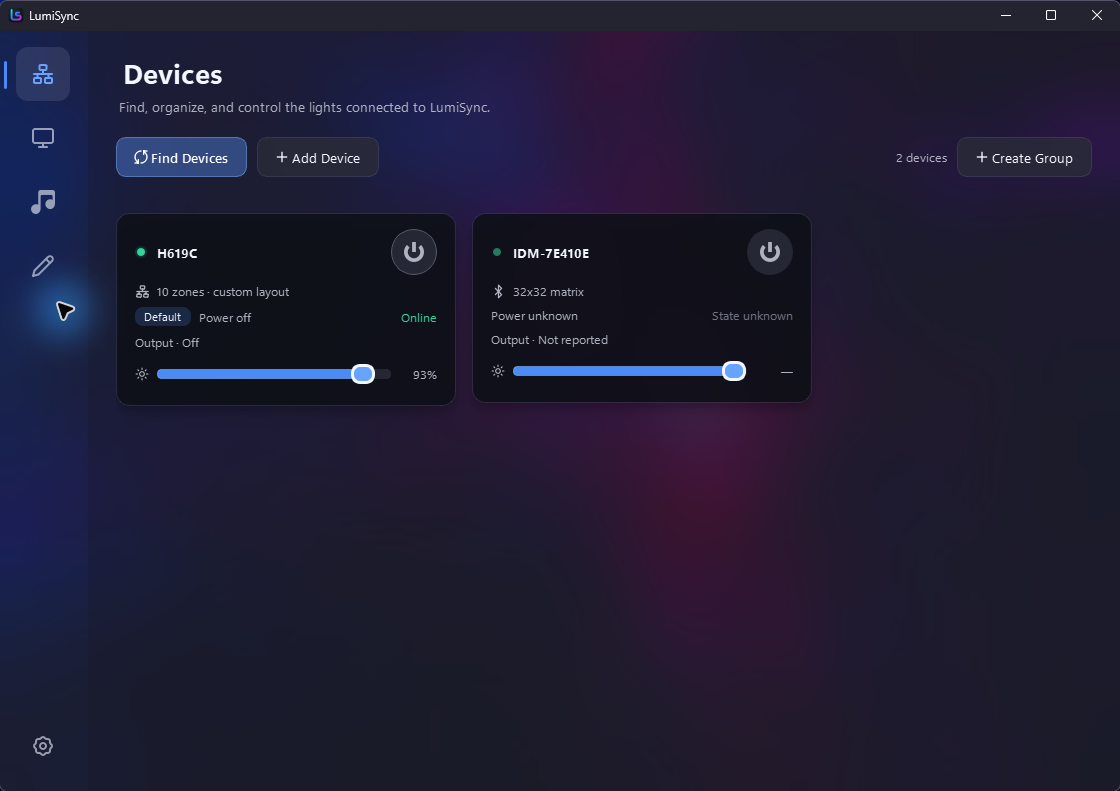
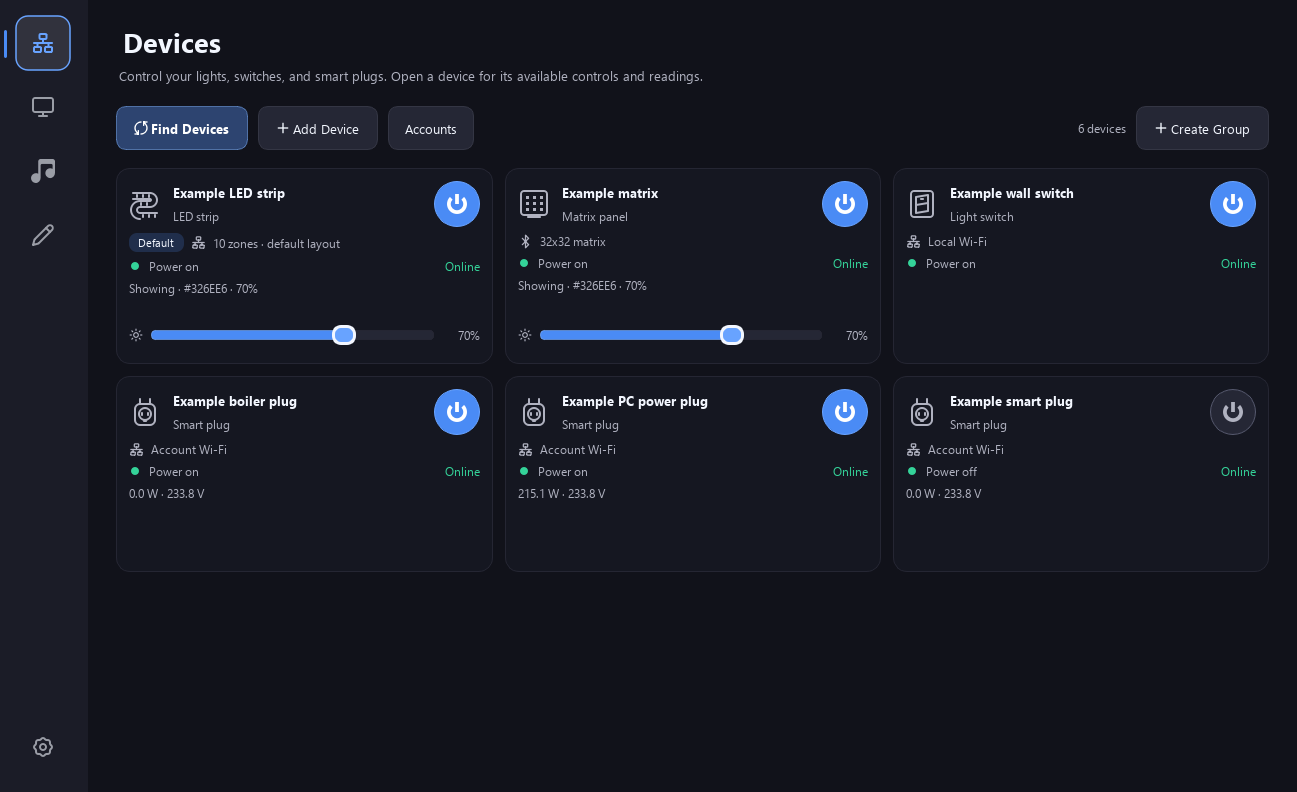
feat(website): present account control, plug readings and current screenshots

diff --git a/website/app/page.tsx b/website/app/page.tsx
@@ -11,16 +11,28 @@ const downloads = {
   pypi: "https://pypi.org/project/lumisync/",
 };
 
+const accountGuide = "https://github.com/Minlor/LumiSync/blob/main/docs/vendor-accounts.md";
+const releaseNotes = "https://github.com/Minlor/LumiSync/releases/tag/0.8.0";
+
+function Screenshot({ name, alt, caption }: { name: string; alt: string; caption: string }) {
+  return <figure className="screenshot">
+    <a href={`/images/${name}.png`} aria-label={`Open full-size screenshot: ${alt}`}>
+      <img src={`/images/${name}.png`} alt={alt} loading="lazy" />
+    </a>
+    <figcaption>{caption} Example data.</figcaption>
+  </figure>;
+}
+
 const features = [
   { title: "Match your screen", copy: "Mirror the colours at the edge of your display across a single light or an entire room.", icon: Monitor },
   { title: "React to music", copy: "Turn audio into responsive colour and motion, with Auto Director when you want it hands-free.", icon: Music2 },
-  { title: "Control everything", copy: "Discover, group, dim, recolour, and power supported lights from one focused desktop app.", icon: SlidersHorizontal },
+  { title: "Control lights and plugs", copy: "Use the controls each device supports. Switches get power controls; compatible plugs also show electrical readings.", icon: SlidersHorizontal },
 ];
 
 const devices = [
-  ["Govee", "LAN / UDP", "Strips and bulbs"],
+  ["Govee", "LAN / account / API", "Strips and bulbs"],
   ["iDotMatrix", "Bluetooth LE", "Pixel displays"],
-  ["LSC / Tuya", "Local network", "Wi-Fi lights"],
+  ["LSC / Tuya", "LAN / account", "Lights, switches and plugs"],
 ];
 
 export default function Home() {
@@ -41,24 +53,23 @@ export default function Home() {
 
       <section className="hero" id="top">
         <div className="heroCopy">
-          <p className="eyebrow">Free &amp; open source · Windows &amp; Linux</p>
-          <h1>Light that follows<br />what you love.</h1>
-          <p className="heroLead">LumiSync makes your Govee, iDotMatrix, and Tuya lights react to your screen and music. It runs locally, stays private, and keeps setup simple.</p>
+          <h1>Lights and plugs.<br />One desktop app.</h1>
+          <p className="heroLead">Control Govee, Tuya and LSC devices from your desktop. Sync local lights with your screen or music, draw on iDotMatrix panels, and check supported plugs&apos; energy use.</p>
           <div className="heroActions">
             <a className="button primary" href={downloads.windows}><FaWindows aria-hidden="true" /> Download for Windows <ArrowDownToLine aria-hidden="true" /></a>
             <a className="button secondary" href={downloads.linux}><FaLinux aria-hidden="true" /> Download for Linux</a>
           </div>
-          <p className="heroNote">No account · No cloud required · Just your lights.</p>
+          <p className="heroNote">Free &amp; open source · Windows &amp; Linux. Local sync, with optional vendor accounts for cloud control.</p>
+          <p className="releaseNote"><a href={releaseNotes}>New in 0.8.0: personal accounts, plug metering and a more adaptable interface.</a></p>
         </div>
         <div className="heroPreview">
-          <img src="/images/music-sync.png" alt="LumiSync desktop app showing music sync controls" />
+          <Screenshot name="plug-energy" alt="LumiSync device inventory and smart plug readings" caption="Device controls and supported plug readings." />
         </div>
       </section>
 
       <section className="featureSection" id="features">
         <div className="sectionHeading">
-          <p className="eyebrow">Made for the room you are in</p>
-          <h2>One simple app.<br />Three useful modes.</h2>
+          <h2>Sync, control and<br />check your devices.</h2>
         </div>
         <div className="featureGrid">
           {features.map(({ title, copy, icon: Icon }) => (
@@ -73,8 +84,7 @@ export default function Home() {
 
       <section className="productSection">
         <div className="productCopy">
-          <p className="eyebrow">Monitor sync</p>
-          <h2>Bring the screen<br />into the room.</h2>
+          <h2>Screen colors<br />across your lights.</h2>
           <p>Choose a display, map its regions to your LEDs, then adjust brightness, smoothing, saturation, and frame rate until it feels right.</p>
           <ul>
             <li>Multi-monitor selection</li>
@@ -82,12 +92,11 @@ export default function Home() {
             <li>Groups and individual lights</li>
           </ul>
         </div>
-        <img className="productScreenshot" src="/images/monitor-sync.png" alt="LumiSync monitor sync settings" />
+        <Screenshot name="monitor-sync" alt="LumiSync monitor sync settings" caption="Map screen regions to compatible local lights." />
       </section>
 
       <section className="productSection productReverse">
         <div className="productCopy">
-          <p className="eyebrow">Music sync</p>
           <h2>Let every beat<br />set the mood.</h2>
           <p>Choose a reaction and a palette yourself, or let Auto Director follow the energy so the lighting stays alive without needing attention.</p>
           <ul>
@@ -96,44 +105,66 @@ export default function Home() {
             <li>Automatic scene direction</li>
           </ul>
         </div>
-        <img className="productScreenshot" src="/images/music-sync.png" alt="LumiSync music sync settings" />
+        <Screenshot name="music-sync" alt="LumiSync music sync settings" caption="Choose reactions, palettes and local targets." />
       </section>
 
       <section className="deviceSection" id="devices">
         <div className="sectionHeading compactHeading">
-          <p className="eyebrow">Supported devices</p>
           <h2>Different brands.<br />One control room.</h2>
-          <p>LumiSync connects directly over your local network or Bluetooth, so your lighting data stays at home.</p>
+          <p>Connect over your local network, Bluetooth or your own vendor account. Screen and music sync use supported local connections; cloud connections provide manual control.</p>
         </div>
         <div className="deviceContent">
-          <img src="/images/devices.png" alt="LumiSync device management screen" />
-          <div className="deviceTable" role="table" aria-label="Supported device families">
-            <div className="tableHead" role="row"><span>Family</span><span>Connection</span><span>Products</span></div>
-            {devices.map(([family, connection, products]) => (
-              <div className="tableRow" role="row" key={family}><strong>{family}</strong><span>{connection}</span><span>{products}</span></div>
-            ))}
+          <Screenshot name="devices" alt="Example LED strip, matrix, wall switch and smart plugs" caption="Distinct device types and controls that fit their capabilities." />
+          <div>
+            <table className="deviceTable">
+              <caption>Supported device families</caption>
+              <thead><tr><th scope="col">Family</th><th scope="col">Connection</th><th scope="col">Products</th></tr></thead>
+              <tbody>{devices.map(([family, connection, products]) => (
+                <tr key={family}><th scope="row">{family}</th><td>{connection}</td><td>{products}</td></tr>
+              ))}</tbody>
+            </table>
+            <p className="supportNote">Support varies by model and firmware. iDotMatrix uses Bluetooth; supported local Tuya connections need an authorized device key.</p>
           </div>
         </div>
       </section>
 
+      <section className="productSection" id="accounts">
+        <div className="productCopy">
+          <h2>Use the accounts<br />you already have.</h2>
+          <p>Sign in with your Govee, Tuya Smart or LSC email and password. Choose your account country from a dropdown; LumiSync suggests your computer&apos;s region and handles account routing.</p>
+          <p>Tuya and LSC password sign-in reads the matching Android app package once. LumiSync can find it in Downloads or let you browse for it. Account lists partially hide emails.</p>
+          <a className="textLink" href={accountGuide}>Read account setup <ArrowRight aria-hidden="true" /></a>
+        </div>
+        <Screenshot name="accounts" alt="Tuya password sign-in with country selection and masked example accounts" caption="Personal sign-in, with connected accounts alongside." />
+      </section>
+
+      <section className="productSection productReverse" id="energy">
+        <div className="productCopy">
+          <h2>See what your<br />plug is drawing.</h2>
+          <p>Open a supported Tuya or LSC smart plug to see power in watts, voltage and current. Readings refresh every five seconds while the inspector is visible.</p>
+          <p>Load monthly energy totals in kWh and expand daily readings. Availability depends on what your device and account report; missing values stay marked as not reported.</p>
+        </div>
+        <Screenshot name="plug-energy" alt="Example smart plug with 215.1 watts, voltage, current and monthly energy use" caption="Live readings and energy history in the device inspector." />
+      </section>
+
       <section className="download" id="download">
         <img src="/lumisync-app.png" alt="LumiSync app icon" />
-        <p className="eyebrow">Ready to try it?</p>
-        <h2>Make room react.</h2>
-        <p>Download LumiSync, connect a supported light, and start syncing in minutes.</p>
+        <h2>Download LumiSync 0.8.0.</h2>
+        <p>Discover local devices or connect your vendor account. Prebuilt downloads include the runtime; Python is only needed for pip or source installs.</p>
         <div className="downloadGrid">
-          <a className="downloadOption featured" href={downloads.windows}><FaWindows aria-hidden="true" /><span><strong>Windows</strong><small>Single-file installer · x64</small></span><ArrowDownToLine aria-hidden="true" /></a>
+          <a className="downloadOption featured" href={downloads.windows}><FaWindows aria-hidden="true" /><span><strong>Windows</strong><small>Single-file app · x64</small></span><ArrowDownToLine aria-hidden="true" /></a>
           <a className="downloadOption" href={downloads.portable}><PackageOpen aria-hidden="true" /><span><strong>Windows portable</strong><small>Extract and run · x64</small></span><ArrowDownToLine aria-hidden="true" /></a>
           <a className="downloadOption" href={downloads.linux}><FaLinux aria-hidden="true" /><span><strong>Linux</strong><small>AppImage · x86_64</small></span><ArrowDownToLine aria-hidden="true" /></a>
           <a className="downloadOption" href={downloads.pypi}><FaPython aria-hidden="true" /><span><strong>Install with pip</strong><small>Python 3.11+ · advanced</small></span><ArrowRight aria-hidden="true" /></a>
         </div>
-        <p className="requirements">Windows 10/11 is fully supported. Linux screen sync requires X11; macOS and Wayland capture are in progress.</p>
+        <p className="requirements">Windows 10/11. Linux AppImage requires glibc 2.35+; screen sync requires X11. macOS and Wayland capture are in progress.</p>
+        <p className="releaseNote"><a href={releaseNotes}>Release notes</a> · <a href={accountGuide}>Account setup</a></p>
       </section>
 
       <footer>
         <a className="brand" href="#top"><img src="/lumisync-mark.png" alt="" /><span>LumiSync</span></a>
         <p>A Minlor project · Screen, sound, and light in sync.</p>
-        <div><a href="https://github.com/Minlor/LumiSync">GitHub</a><a href="https://pypi.org/project/lumisync/">PyPI</a><a href="https://ko-fi.com/Minlor">Support</a><a href="https://minlor.net">minlor.net</a></div>
+        <div><a href="https://github.com/Minlor/LumiSync">GitHub</a><a href={accountGuide}>Account setup</a><a href="https://pypi.org/project/lumisync/">PyPI</a><a href="https://ko-fi.com/Minlor">Support</a><a href="https://minlor.net">minlor.net</a></div>
       </footer>
     </main>
   );

diff --git a/website/app/globals.css b/website/app/globals.css
@@ -6,16 +6,18 @@
   --line: #343644;
   --text: #f3f7ff;
   --muted: #b8bac7;
-  --soft: #858897;
+  --soft: #a7aab9;
   --blue: #4a8bf5;
   --blue-light: #70a7ff;
-  --font: Inter, "Segoe UI Variable", "Segoe UI", Arial, sans-serif;
+  --font: "Segoe UI Variable", "Segoe UI", system-ui, sans-serif;
 }
 
 * { box-sizing: border-box; }
 html { background: var(--page-deep); scroll-behavior: smooth; }
 body { background: var(--page); color: var(--text); font-family: var(--font); margin: 0; -webkit-font-smoothing: antialiased; }
 a { color: inherit; text-decoration: none; }
+a:focus-visible { outline: 2px solid var(--blue-light); outline-offset: 5px; }
+section[id] { scroll-margin-top: 90px; }
 img { display: block; max-width: 100%; }
 ::selection { background: var(--blue); color: white; }
 
@@ -25,23 +27,23 @@ img { display: block; max-width: 100%; }
 .navLinks { align-items: center; display: flex; gap: 28px; }
 .navLinks a { align-items: center; color: var(--muted); display: inline-flex; font-size: 15px; font-weight: 600; gap: 8px; }
 .navLinks a:hover, footer a:hover { color: white; }
-.navLinks .navDownload { background: var(--blue); border-radius: 8px; color: white; padding: 10px 18px; }
-.navLinks .navDownload:hover { background: var(--blue-light); }
+.navLinks .navDownload { background: #2e4470; border: 1px solid #5079b8; border-radius: 8px; color: white; padding: 10px 18px; }
+.navLinks .navDownload:hover { background: #3a5280; }
 
 .hero, .featureSection, .productSection, .deviceSection, .download, footer { margin-left: auto; margin-right: auto; max-width: 1180px; }
 .hero { align-items: center; display: grid; gap: 72px; grid-template-columns: minmax(0, .88fr) minmax(0, 1.12fr); min-height: 650px; padding: 92px 24px; }
 .eyebrow { color: var(--blue-light); font-size: 15px; font-weight: 700; letter-spacing: .02em; margin: 0 0 18px; }
 h1, h2, h3, p { margin-top: 0; }
-h1 { font-size: clamp(48px, 6vw, 74px); font-weight: 750; letter-spacing: -.065em; line-height: 1.02; margin-bottom: 24px; }
+h1 { font-size: clamp(48px, 5vw, 64px); font-weight: 750; letter-spacing: -.055em; line-height: 1.08; margin-bottom: 24px; }
 .heroLead { color: var(--muted); font-size: 19px; line-height: 1.62; margin-bottom: 30px; max-width: 530px; }
 .heroActions { display: flex; flex-wrap: wrap; gap: 12px; }
 .button { align-items: center; border: 1px solid var(--line); border-radius: 8px; display: inline-flex; font-size: 16px; font-weight: 700; gap: 10px; min-height: 52px; padding: 0 18px; }
-.button.primary { background: var(--blue); border-color: var(--blue); color: white; }
-.button.primary:hover { background: var(--blue-light); }
+.button.primary { background: #2e4470; border-color: #5079b8; color: white; }
+.button.primary:hover { background: #3a5280; }
 .button.secondary { background: var(--panel); color: var(--text); }
 .button.secondary:hover, .downloadOption:hover { background: var(--panel-hover); border-color: #515467; }
 .heroNote { color: var(--soft); font-size: 15px; margin: 17px 0 0; }
-.heroPreview { box-shadow: 0 28px 70px rgba(0, 0, 0, .42); }
+.heroPreview { min-width: 0; }
 .heroPreview img, .productScreenshot, .deviceContent > img { border: 1px solid var(--line); border-radius: 10px; width: 100%; }
 
 .featureSection { border-top: 1px solid var(--line); padding: 96px 24px; }
@@ -53,22 +55,37 @@ h2 { font-size: clamp(36px, 4.8vw, 58px); font-weight: 740; letter-spacing: -.05
 .featureCard h3 { font-size: 22px; letter-spacing: -.025em; margin-bottom: 12px; }
 .featureCard p, .productCopy > p, .compactHeading > p, .download > p { color: var(--muted); font-size: 17px; line-height: 1.65; }
 .featureCard p { margin-bottom: 0; }
+.productCopy h2 { margin-bottom: 24px; }
+.screenshot { margin: 0; min-width: 0; }
+.screenshot img { border: 1px solid var(--line); border-radius: 10px; width: 100%; }
+.screenshot a { display: block; }
+.screenshot figcaption { color: var(--soft); font-size: 14px; line-height: 1.5; margin-top: 12px; }
+.textLink { align-items: center; color: var(--blue-light); display: inline-flex; gap: 8px; min-height: 44px; text-decoration: underline; text-underline-offset: 4px; }
+.textLink svg { height: 18px; width: 18px; }
+.releaseNote { color: var(--muted); font-size: 15px; line-height: 1.6; margin-top: 20px !important; }
+.releaseNote a { text-decoration: underline; text-underline-offset: 4px; }
 
 .productSection { align-items: center; display: grid; gap: 80px; grid-template-columns: .74fr 1.26fr; padding: 90px 24px; }
 .productReverse { grid-template-columns: 1.26fr .74fr; }
 .productReverse .productCopy { grid-column: 2; grid-row: 1; }
-.productReverse .productScreenshot { grid-column: 1; grid-row: 1; }
+.productReverse .screenshot { grid-column: 1; grid-row: 1; }
 .productCopy ul { color: var(--muted); display: grid; font-size: 17px; gap: 12px; line-height: 1.5; list-style: none; margin: 26px 0 0; padding: 0; }
-.productCopy li { align-items: center; display: flex; gap: 11px; }
-.productCopy li::before { background: var(--blue); border-radius: 50%; content: ""; height: 7px; width: 7px; }
+.productCopy ul { list-style: disc; padding-left: 20px; }
+.productCopy li { padding-left: 3px; }
 .productScreenshot { box-shadow: 0 22px 50px rgba(0, 0, 0, .35); }
 
 .deviceSection { border-top: 1px solid var(--line); padding: 96px 24px; }
 .compactHeading { align-items: end; display: grid; gap: 24px 60px; grid-template-columns: 1fr 1fr; max-width: none; }
-.compactHeading .eyebrow, .compactHeading h2 { grid-column: 1; }
-.compactHeading > p { grid-column: 2; grid-row: 1 / span 2; margin: 0; max-width: 460px; }
+.compactHeading h2 { grid-column: 1; }
+.compactHeading > p { grid-column: 2; margin: 0; max-width: 460px; }
 .deviceContent { display: grid; gap: 26px; grid-template-columns: 1.1fr .9fr; margin-top: 44px; }
-.deviceTable { background: var(--panel); border: 1px solid var(--line); border-radius: 10px; overflow: hidden; }
+.deviceTable { background: var(--panel); border: 1px solid var(--line); border-collapse: collapse; table-layout: fixed; width: 100%; }
+.deviceTable caption { color: var(--text); font-size: 18px; font-weight: 600; padding-bottom: 18px; text-align: left; }
+.deviceTable th, .deviceTable td { border-bottom: 1px solid var(--line); font-size: 15px; line-height: 1.5; overflow-wrap: anywhere; padding: 18px 14px; text-align: left; vertical-align: top; }
+.deviceTable thead th { color: var(--soft); font-size: 13px; }
+.deviceTable tbody th { color: var(--text); }
+.deviceTable td { color: var(--muted); }
+.supportNote { color: var(--muted); font-size: 15px; line-height: 1.65; margin-top: 22px; }
 .tableHead, .tableRow { display: grid; grid-template-columns: .8fr 1fr 1.2fr; gap: 18px; padding: 20px 22px; }
 .tableHead { background: #171823; border-bottom: 1px solid var(--line); color: var(--soft); font-size: 13px; font-weight: 700; }
 .tableRow { border-bottom: 1px solid var(--line); color: var(--muted); font-size: 15px; line-height: 1.45; }
@@ -87,9 +104,9 @@ h2 { font-size: clamp(36px, 4.8vw, 58px); font-weight: 740; letter-spacing: -.05
 .downloadOption strong { font-size: 17px; }
 .downloadOption small { color: var(--soft); font-size: 14px; }
 .downloadOption > svg:last-child { font-size: 18px; justify-self: end; }
-.downloadOption.featured { background: var(--blue); border-color: var(--blue); color: white; }
+.downloadOption.featured { background: #2e4470; border-color: #5079b8; color: white; }
 .downloadOption.featured > svg, .downloadOption.featured small { color: white; }
-.downloadOption.featured:hover { background: var(--blue-light); }
+.downloadOption.featured:hover { background: #3a5280; }
 .requirements { color: var(--soft) !important; font-size: 14px !important; margin-top: 22px !important; }
 
 footer { align-items: center; border-top: 1px solid var(--line); display: grid; gap: 24px; grid-template-columns: auto 1fr auto; min-height: 128px; padding: 30px 24px; }
@@ -103,8 +120,8 @@ footer a { color: var(--muted); font-size: 15px; font-weight: 600; }
   .heroPreview { max-width: 720px; }
   .featureGrid { grid-template-columns: 1fr; }
   .productSection, .productReverse { gap: 42px; grid-template-columns: 1fr; }
-  .productReverse .productCopy, .productReverse .productScreenshot { grid-column: 1; }
-  .productReverse .productCopy { grid-row: 1; }.productReverse .productScreenshot { grid-row: 2; }
+  .productReverse .productCopy, .productReverse .screenshot { grid-column: 1; }
+  .productReverse .productCopy { grid-row: 1; }.productReverse .screenshot { grid-row: 2; }
   .compactHeading { grid-template-columns: 1fr; }.compactHeading > p { grid-column: 1; grid-row: auto; }
   .deviceContent { grid-template-columns: 1fr; }
   footer { grid-template-columns: 1fr; }
@@ -119,6 +136,7 @@ footer a { color: var(--muted); font-size: 15px; font-weight: 600; }
   .featureSection, .deviceSection { padding-bottom: 72px; padding-top: 72px; }.productSection { padding-bottom: 68px; padding-top: 68px; }
   .featureCard { padding: 24px; }.featureCard p, .productCopy > p, .compactHeading > p, .download > p, .productCopy ul { font-size: 16px; }
   .tableHead, .tableRow { gap: 12px; grid-template-columns: .8fr 1fr 1.1fr; padding: 17px 14px; }.tableHead { font-size: 12px; }.tableRow { font-size: 14px; }.tableRow strong { font-size: 14px; }
+  .deviceTable th, .deviceTable td { font-size: 14px; padding: 14px 10px; }
   .download { border-left: 0; border-radius: 0; border-right: 0; margin-bottom: 60px; padding: 56px 20px; }.downloadGrid { grid-template-columns: 1fr; }.downloadOption strong { font-size: 16px; }.downloadOption small { font-size: 13px; }
   footer { margin: 0 20px; padding-left: 0; padding-right: 0; }footer p, footer a { font-size: 14px; }footer div { flex-wrap: wrap; gap: 14px 20px; }
 }

diff --git a/website/README.md b/website/README.md
@@ -22,3 +22,16 @@ npm run deploy
 For automatic deployments, add `CLOUDFLARE_API_TOKEN` and `CLOUDFLARE_ACCOUNT_ID` as GitHub Actions repository secrets. The workflow validates the static build before deploying it.
 
 Download buttons use GitHub's stable `releases/latest/download/` URLs, so releases do not require website updates while artifact names remain unchanged.
+
+The 0.8.0 page documents personal vendor accounts, device capability controls,
+supported plug metering and local-sync limitations. Screenshots show the real
+application with labelled example data. Regenerate them from the repository root:
+
+```bash
+python tools/capture_example_screenshots.py
+```
+
+Copy the devices, monitor-sync, music-sync, accounts and plug-energy captures
+from `docs/images/lumisync-*.png` to the corresponding files in `public/images/`.
+Run `npm test` before deploying, and publish the matching app release before
+updating the public website's version and release-notes link.
